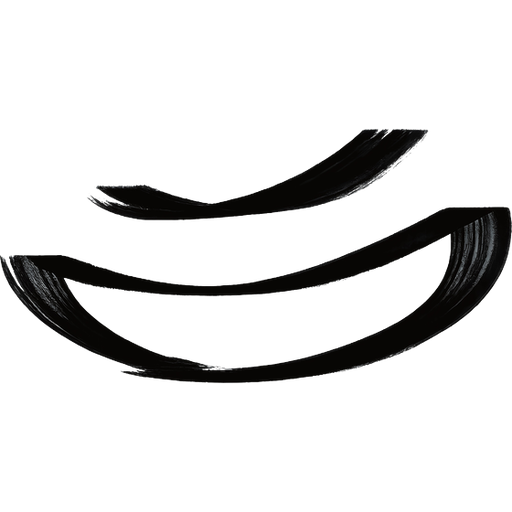
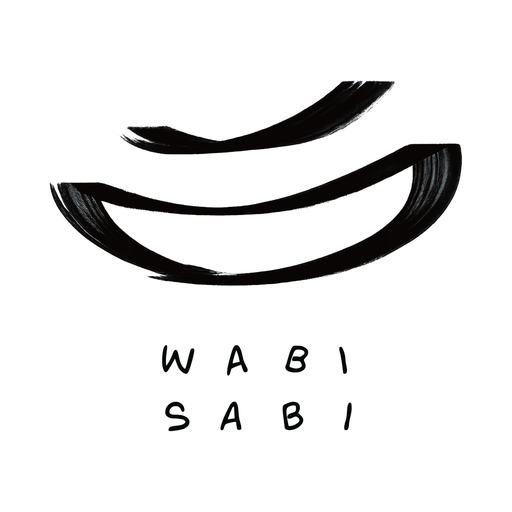
feat: 아이콘 3종 브랜드 로고 통일 + 모바일 카테고리 탭 구조화 (#408)
* feat(pwa): 아이콘 3종 브랜드 로고 통일 (파비콘·apple-touch·manifest)

투명 배경(alpha) 원본을 흰 배경 합성 + 콘텐츠 bbox 로 여백 크롭해 로고가
아이콘을 꽉 채우게 재생성. iOS "홈 화면에 추가"가 옛 마크로 뜨던 원인=
apple-touch-icon 부재(파비콘 폴백) → app/apple-icon.png 신규 추가.
- public/brand/icon.png (manifest, 512)
- src/app/apple-icon.png (iOS 홈, 180, 신규)
- src/app/icon.png (파비콘, 512 — PWA와 동일 풀로고)

* feat(shop): 모바일 카테고리 탭 구조화 — 그룹·들여쓰기, 밑줄 제거

플랫 가운데정렬이 정리 안 돼 보인다는 대표님 피드백. 세 묶음으로 구조화:
① 특수(전체·이 달·오늘의) ② TABLEWARE + 소분류(들여쓰기) ③ OBJECTS +
소분류(들여쓰기). 좌측 정렬, 소분류 pl-4 들여쓰기, 대분류 헤더 굵게.
선택 표시는 밑줄 대신 텍스트만 진하게(font-semibold).

---------

diff --git a/web/src/components/mobile-category-tabs.tsx b/web/src/components/mobile-category-tabs.tsx
@@ -3,10 +3,10 @@ import { MONTHLY_SLUG, type CategoryNode } from "@/lib/site";
 import { buildShopQuery, type ShopSP } from "@/lib/shop-url";
 import { cn } from "@/lib/utils";
 
-// 모바일/태블릿 카테고리 — 드롭다운 대신 한눈에 보이는 플랫 탭바(대표님, Have Haus
-// 참고 — 드롭다운은 직관성↓). 특수(전체·이 달·오늘의) + 대분류(굵게) + 소분류를
-// 가운데 정렬로 줄바꿈해 흩어 놓는다. 선택 항목은 진하게+밑줄. 데스크톱은 좌측
-// 사이드바(ShopSidebar)를 그대로 쓰므로 이 컴포넌트는 lg 미만에서만 노출.
+// 모바일/태블릿 카테고리 — 드롭다운 대신 한눈에 보이는 구조화 탭(대표님). 세 묶음으로
+// 정리한다: ① 특수(전체·이 달·오늘의) ② 대분류 TABLEWARE + 소분류(들여쓰기)
+// ③ 대분류 OBJECTS + 소분류(들여쓰기). 좌측 정렬, 대분류 아래 소분류는 pl-4 로
+// 들여쓴다. 선택 항목은 밑줄 없이 텍스트만 진하게(대표님). 데스크톱은 ShopSidebar.
 
 function Tab({
   href,
@@ -26,7 +26,7 @@ function Tab({
       className={cn(
         "text-sm leading-none transition active:opacity-40",
         active
-          ? "font-semibold text-wabi-fg underline underline-offset-[6px]"
+          ? "font-semibold text-wabi-fg"
           : "text-wabi-fg-muted hover:text-wabi-fg",
         className,
       )}
@@ -48,50 +48,62 @@ export function MobileCategoryTabs({
   return (
     <nav
       aria-label="카테고리"
-      className="mt-6 flex flex-wrap items-center justify-center gap-x-4 gap-y-3 border-b border-wabi-border pb-6 lg:hidden"
+      className="mt-6 border-b border-wabi-border pb-6 lg:hidden"
     >
-      <Tab href={buildShopQuery(sp, { category: undefined })} active={!current}>
-        전체
-      </Tab>
-      <Tab
-        href={buildShopQuery(sp, { category: MONTHLY_SLUG })}
-        active={current === MONTHLY_SLUG}
-        className="text-wabi-accent hover:text-wabi-accent"
-      >
-        <span aria-hidden className="mr-0.5">
-          ✦
-        </span>
-        이 달의 상품
-      </Tab>
+      {/* ① 특수 묶음 — 전체 · 이 달의 상품 · 오늘의 와비사비 */}
+      <div className="flex flex-wrap gap-x-5 gap-y-2">
+        <Tab href={buildShopQuery(sp, { category: undefined })} active={!current}>
+          전체
+        </Tab>
+        <Tab
+          href={buildShopQuery(sp, { category: MONTHLY_SLUG })}
+          active={current === MONTHLY_SLUG}
+          className="text-wabi-accent hover:text-wabi-accent"
+        >
+          <span aria-hidden className="mr-0.5">
+            ✦
+          </span>
+          이 달의 상품
+        </Tab>
+        <Tab
+          href="/today"
+          active={false}
+          className="text-wabi-accent hover:text-wabi-accent"
+        >
+          <span aria-hidden className="mr-0.5">
+            ✦
+          </span>
+          오늘의 와비사비
+        </Tab>
+      </div>
 
-      {tree.map((node) => (
-        <div key={node.slug} className="contents">
-          {/* 대분류(굵게) = 그룹 전체보기 링크 */}
-          <Tab
-            href={buildShopQuery(sp, { category: node.slug })}
-            active={current === node.slug}
-            className="font-medium"
-          >
-            {node.ko}
-          </Tab>
-          {(node.children ?? []).map((c) => (
+      {/* ②③ 대분류 묶음 — 헤더(굵게) + 소분류(들여쓰기) */}
+      <div className="mt-4 space-y-4 border-t border-wabi-border pt-4">
+        {tree.map((node) => (
+          <div key={node.slug}>
             <Tab
-              key={c.slug}
-              href={buildShopQuery(sp, { category: c.slug })}
-              active={current === c.slug}
+              href={buildShopQuery(sp, { category: node.slug })}
+              active={current === node.slug}
+              className="font-medium"
             >
-              {c.ko}
+              {node.ko}
             </Tab>
-          ))}
-        </div>
-      ))}
-
-      <Tab href="/today" active={false} className="text-wabi-accent hover:text-wabi-accent">
-        <span aria-hidden className="mr-0.5">
-          ✦
-        </span>
-        오늘의 와비사비
-      </Tab>
+            {node.children && node.children.length > 0 && (
+              <div className="mt-2 flex flex-wrap gap-x-4 gap-y-2 pl-4">
+                {node.children.map((c) => (
+                  <Tab
+                    key={c.slug}
+                    href={buildShopQuery(sp, { category: c.slug })}
+                    active={current === c.slug}
+                  >
+                    {c.ko}
+                  </Tab>
+                ))}
+              </div>
+            )}
+          </div>
+        ))}
+      </div>
     </nav>
   );
 }
